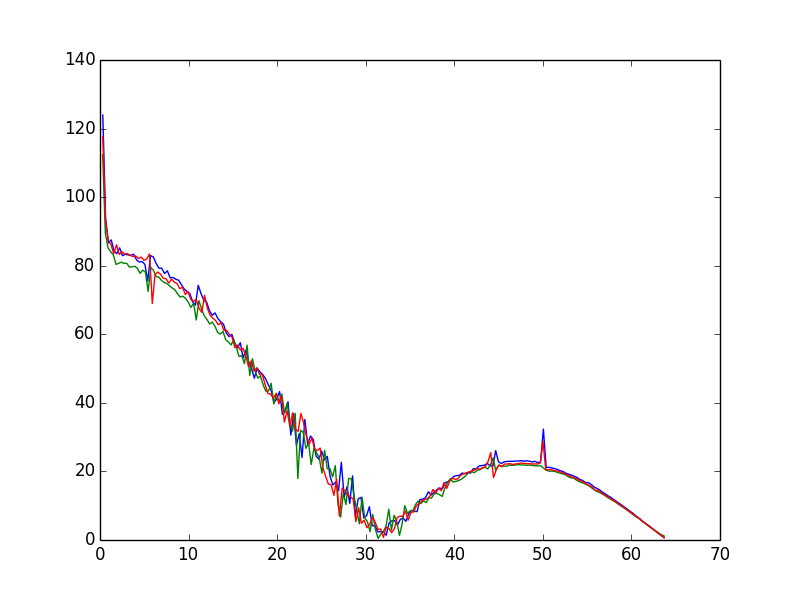
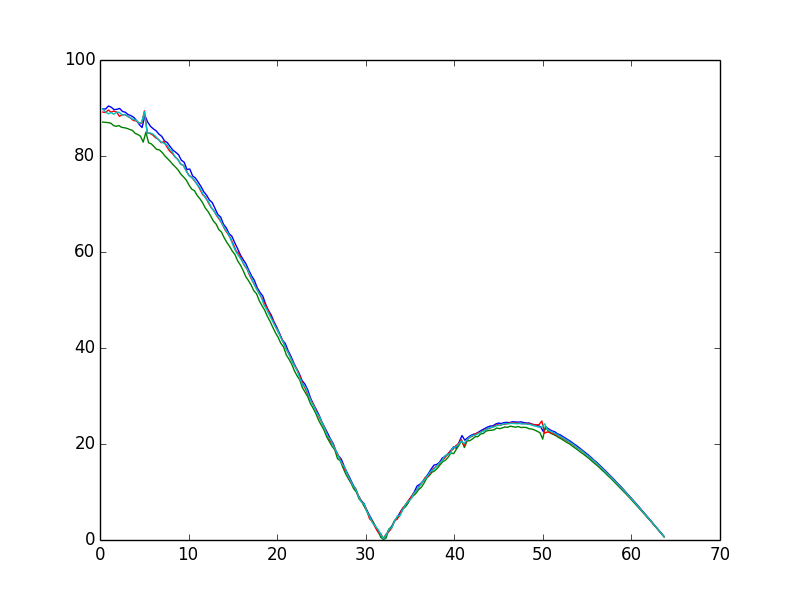
addition graphing working module

diff --git a/trial.py b/trial.py
@@ -5,6 +5,7 @@ import time
 from scipy import signal
 from matplotlib import pyplot
 import matplotlib.pyplot as plt
+import math
 
 
 epoc=Epoc()
@@ -14,28 +15,30 @@ power_store=[]
 time= 0
 
 
-while time<3:
+while time<4:
 	print time
 	datarray=np.zeros((1,4)) #resets datarray every time we run the loop
 
-	for t in range(0,100):
+	for t in range(0,200):
 		
 		#data= epoc.get_raw() #gets raw data from all the channels.. unnecessary once connect is made
 		data= epoc.aquire([9]) #gets raw data from channel O1
 		#print data.shape
 		datarray = np.concatenate((datarray, data), axis = 1)
-		
-		#print "Data: %r \n" %datarray
+		#print "Data: %r \n" %datarray[0]
 		t=t+1
 
-	print datarray.shape
+	#print data.shape
 	time_step = 1/128.0
-	sampling_freqs = scipy.fftpack.fftfreq(len(datarray[0]), d=time_step)
-	positive_freqs = np.where(sampling_freqs > 0)
-	freqs = sampling_freqs[positive_freqs]
-	
-	power= np.abs(scipy.fftpack.fft(signal.detrend(datarray[0])))[freqs]
-	
+	sampling_freqs = np.fft.fftfreq(datarray[0].size, d=time_step) #works fine, generates frequency between 0 to 60+ Hz
+	positive_freqs = np.where(sampling_freqs > 0) #gets only the positive frequencies
+	freqs = sampling_freqs[positive_freqs] #generates the frequencies perfectly
+
+	power= np.abs(np.fft.fft((datarray[0])))[positive_freqs]
+	idx= np.argsort(freqs)
+
+	plt.plot(freqs[idx], power[idx]/power.size)
+
 
 	#print signal.detrend(datarray)
 	#print datarray[0].shape
@@ -52,17 +55,18 @@ while time<3:
 		y=power[i]/(power.size)
 		#(power[i][0]+power[i][1]+power[i][2]+power[i][3])/4
 
+		if x<30.0 and x>4.0:
+			print x,y
 		
-		print x,y
 		
 		#if x<12.0 and x>7.0 : 
 			#print ("Frequency: %r \t Power: %r \n \n") %(x,y)
 			#power_store= power_avg[i]
 	
-	pyplot.plot(freqs, power/power.size, '-')
+	#pyplot.plot(freqs, power/power.size, '-')
 	#pyplot.draw()
 	#pyplot.show()
-	pyplot.savefig("haiz.png")		
+	pyplot.savefig("haiz2.png")		
 
 	
 

diff --git a/trial3.py b/trial3.py
@@ -8,7 +8,7 @@ import matplotlib.pyplot as plt
 
 
 epoc=Epoc()
-#datarray= None
+datarray= []
 power_avg=[]
 power_store=[]
 time= 0
@@ -16,32 +16,28 @@ time= 0
 
 while time<1:
 	print time
-	datarray=np.zeros((1,4)) #resets datarray every time we run the loop
 
 	for t in range(0,100):
 
-		if type(datarray)!=np.ndarray: 
-			data= epoc.aquire([9]) #gets raw data from channel O1
-
-			#datarray=np.concatenate((datarray, data), axis = 1)
+		data= epoc.aquire([9]) #gets raw data from channel O1
+		datarray.append(data)
 
 		t=t+1
 
 	#print "Data: %r \n" %datarray 
 	time_step = 1/128.0
-	sampling_freqs = scipy.fftpack.fftfreq(len(datarray), d=time_step)
+	sampling_freqs = scipy.fftpack.fftfreq(len(datarray[1][0]), d=time_step)
 	positive_freqs = np.where(sampling_freqs > 0)
 	freqs = sampling_freqs[positive_freqs]
 
-	power= np.abs(scipy.fftpack.fft(signal.detrend(datarray)))[positive_freqs]
+	power= np.abs(scipy.fftpack.fft(signal.detrend(datarray[1][0])))[positive_freqs]
 	#print power
 
-	for i in range (0, len(power)):
-		power_avg.append((power[i][0][0]+ power[i][0][1]+ power[i][0][2]+ power[i][0][3]))
+	
 
 	for i in range (0, len(freqs)):
 		x= freqs[i]
-		y= power_avg[i]
+		y= power[i]
 		
 		
 		if x<12.0 and x>7.0 : 
@@ -50,7 +46,7 @@ while time<1:
 
 	time=time+1
 
-	pyplot.plot(freqs, power_avg, '-')
+	pyplot.plot(freqs, power, '-')
 	#pyplot.title ('FFT')
 	#pyplot.xlabel('Frequency')
 	#pyplot.ylabel('Power')
